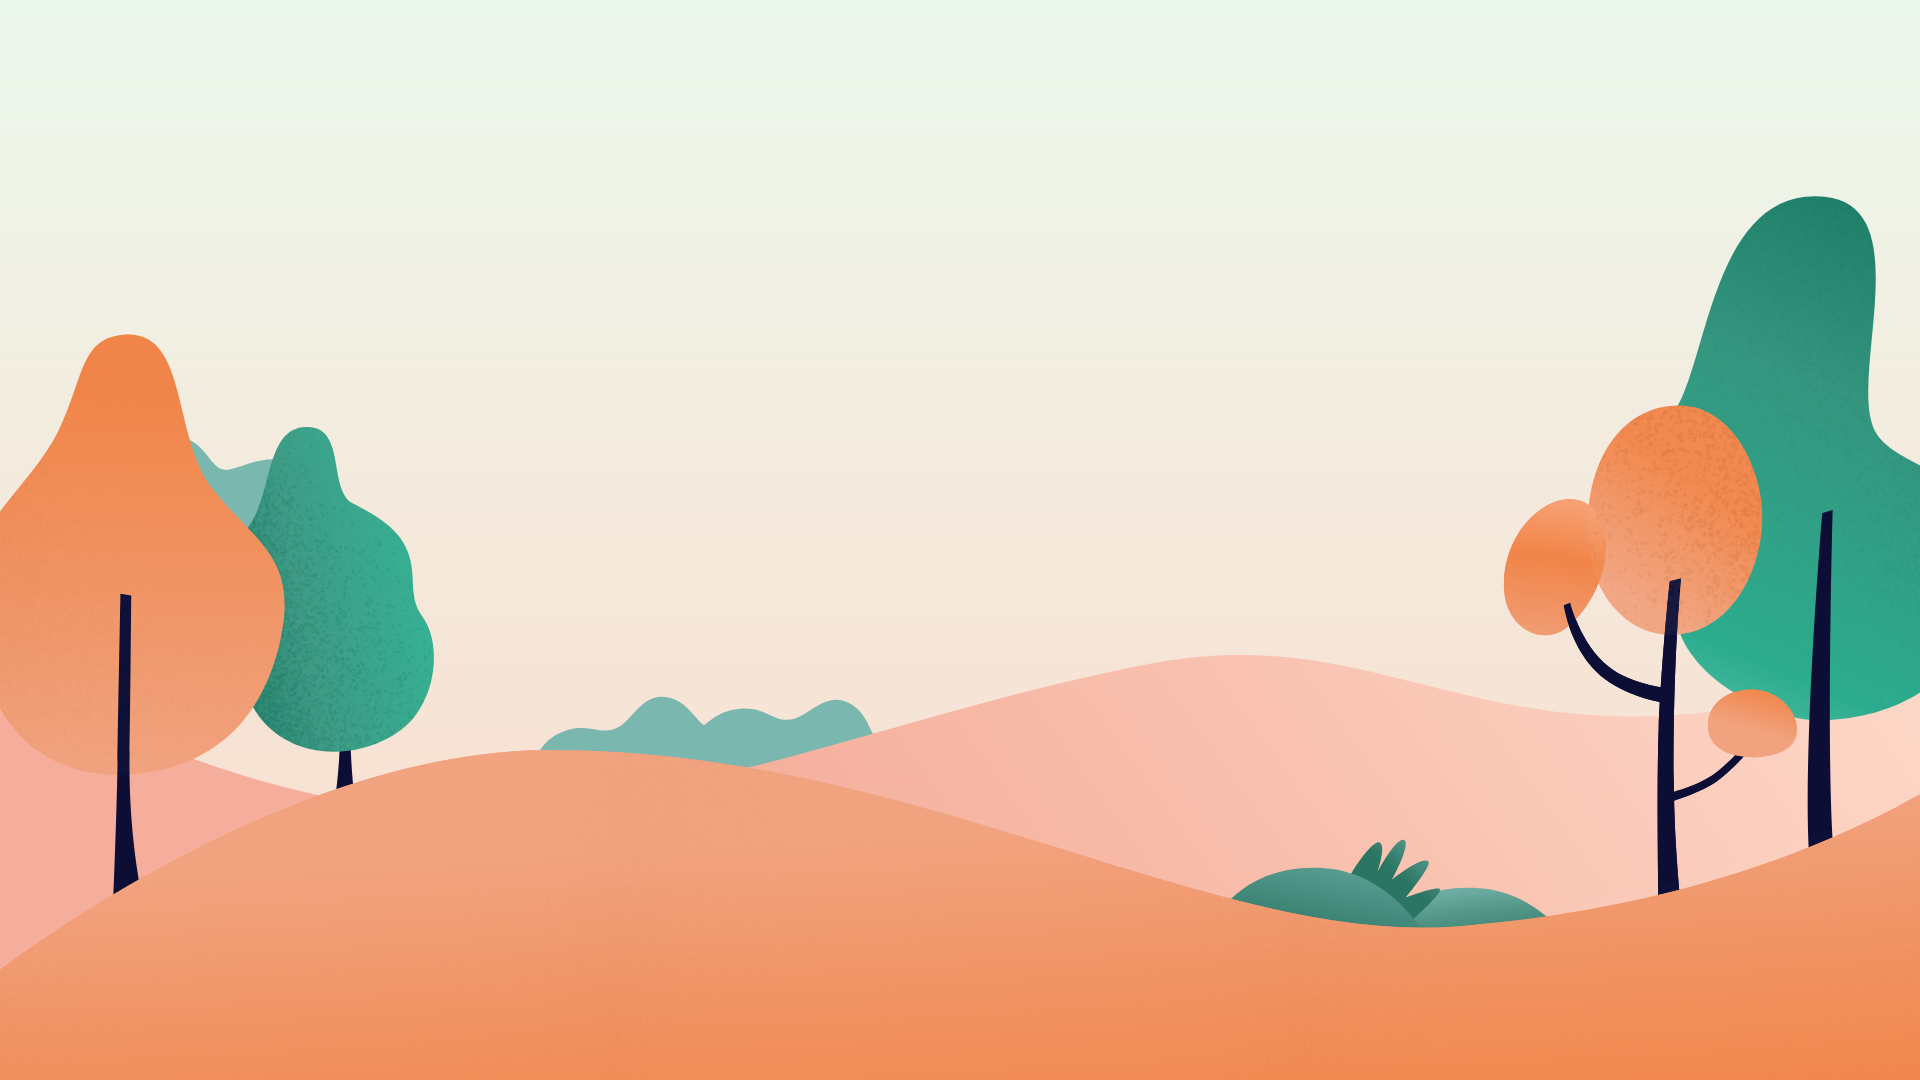
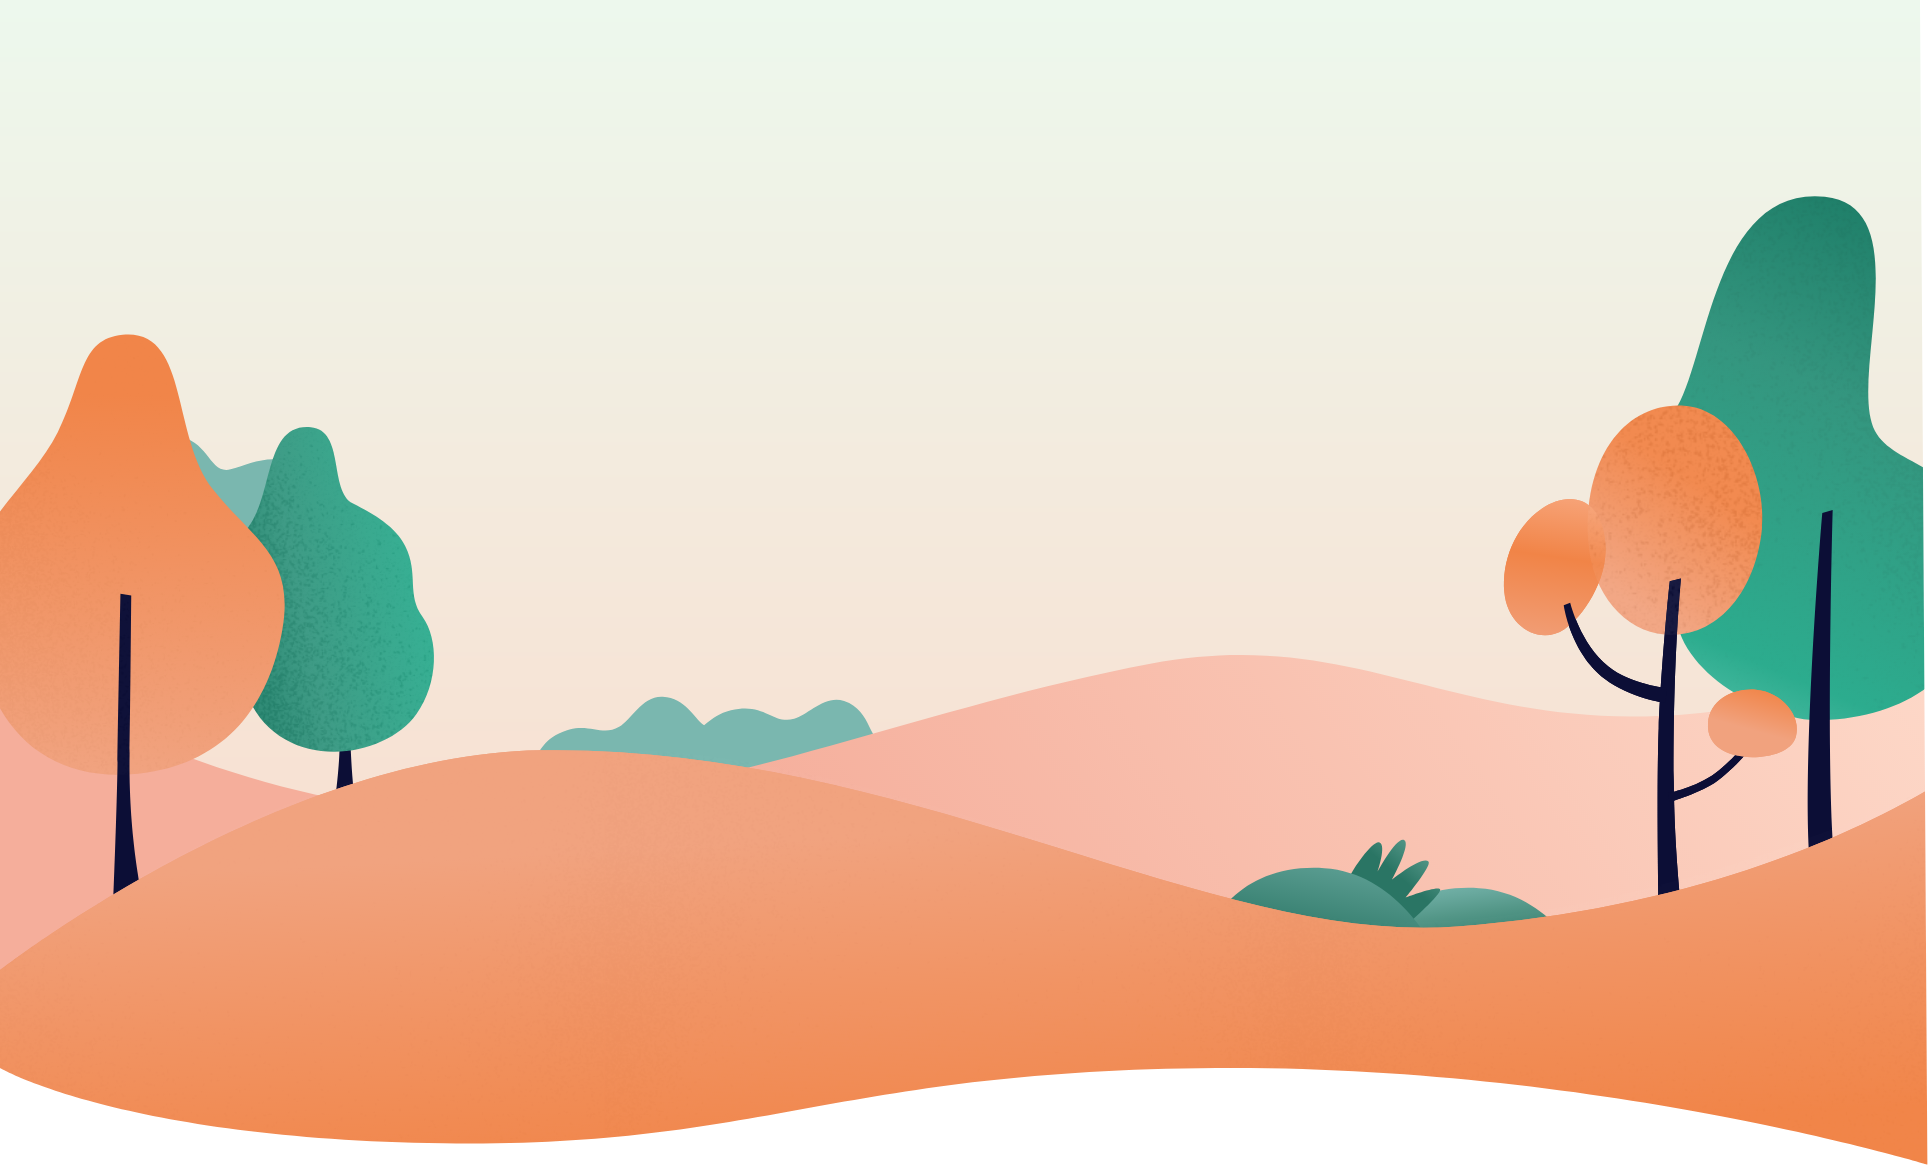
website style

diff --git a/site/index.html b/site/index.html
@@ -16,6 +16,7 @@
 			</div>
 			<nav>
 				<ul>
+					<li><a href="#about">A propos</a></li>
 					<li><a href="#extension">L'extension</a></li>
 					<li><a href="#mobileapp">L'application</a></li>
 					<li><a href="#partners">Nos partenaires</a></li>
@@ -32,5 +33,70 @@
 				</div>
 			</article>
 		</section>
+		<section id="description">
+			<h2>GreenPoke, c'est quoi ?</h2>
+			<article>
+				<section class="content-left">
+					<article>
+						<h3>Navigue de manière écologique</h3>
+						<p>Diminue ta consommation de données en activant le mode éco : seul le contenu indispensable sera conservé.</p>
+					</article>
+					<article>
+						<h3>Diminue ta consommation de données en activant le mode éco : seul le contenu indispensable sera conservé.</h3>
+						<p>Tu as la possibilité de choisir le contenu qui restera affiché sur tes pages web en fonction de tes préférences.</p>
+					</article>
+					<article>
+						<h3>Accompli des challenges</h3>
+						<p>Reçois des objectifs de données journalières à ne pas dépasser et gagnes des points à chaque challenge remporté.</p>
+					</article>
+				</section>
+				<section class="content-center">
+					<img src="assets/img/greenpoke.png" alt="logo greenpoke">
+				</section>
+				<section class="content-right">
+					<article>
+						<h3>Analyse ton flux de données</h3>
+						<p>Garde un oeil sur ton tableau de bord où tu pourras visualiser tes données et comprendre tes actions.</p>
+					</article>
+					<article>
+						<h3>Collecte des points et gagne des avantages avec nos partenaires</h3>
+						<p>Avec les points collectés tu auras le choix de planter un arbre, de faire un don à une association ou de profiter de bons d’achats chez nos partenaires engagés !</p>
+					</article>
+					<article>
+						<h3>Découvre des astuces pour réduire ta consommation de données</h3>
+						<p>GreenPoke t’encourage dans ta démarche en te donnant des conseils pour agir concrètement pour un web plus responsable.</p>
+					</article>
+				</section>
+			</article>
+		</section>
+		<div class="wrapper-ext-app">
+			<section id="discover">
+				<article>
+					<h2>Découvrez notre extension pour navigateur</h2>
+					<p>GreenPoke est une extension gratuite qui permet un suivi de ta consommation journalière via ton navigateur web.</p>
+					<div class="links">
+						<a href="">Je télécharge l'extension</a>
+					</div>
+				</article>
+			</section>
+			<section id="mobileapp">
+				<h2>Plus de 50% de notre consommation en données se fait sur mobile.</h2>
+				<p>Installe l’appli GreenPoke et reprends le contrôle sur ton empreinte écologique au quotidien.</p>
+				<div class="social-links">
+					<a href="">
+						<img src="assets/img/">
+					</a>
+					<a href="">
+						<img src="assets/img/">
+					</a>
+				</div>
+			</section>
+		</div>
+		<section id="partner">
+
+		</section>
+		<footer>
+
+		</footer>
 	</body>
 </html>

diff --git a/site/assets/css/master.css b/site/assets/css/master.css
@@ -11,6 +11,35 @@
 /* GENERAL */
 body {
 	font-family: 'proximaNova';
+	margin-bottom: 1000px;
+}
+h2 {
+	font-family: 'cocogooseBold';
+	font-size: 30px;
+	color: #1BA383;
+	text-align: center;
+	margin-bottom: 40px;
+	margin-top: 20px;
+}
+h3 {
+	font-family: 'cocogooseBold';
+	font-size: 22px;
+}
+.links {
+	display: flex;
+	justify-content: center;
+	margin-top: 32px;
+}
+.links a {
+	display: block;
+	font-size: 18px;
+	background-color: #1BA383;
+	color: white;
+	font-family: 'cocogooseBold';
+	text-decoration: none;
+	text-align: center;
+	padding: 20px 40px;
+	border-radius: 8px;
 }
   
 /* HEADER */
@@ -44,19 +73,25 @@ header nav ul li a {
 
 /* HERO */
 #hero {
-	height: calc(100vh - 112px);
+	height: calc(100vh);
 	display: flex;
 	flex-direction: column;
 	align-items: center;
 	justify-content: center;
+	position: relative;	
 	text-align: center;
 	background-image: url('../img/greenpoke-bg.png');
 	background-size: cover;
-	background-attachment: fixed;
+	background-repeat: no-repeat;
+	background-position: bottom;
+	/*background-attachment: fixed;*/
 }
 #hero article {
 	max-width: 800px;
 	margin: 0 32px;
+	position: absolute;
+	top: 50vh;
+	transform: translateY(-80%);
 }
 #hero h1 {
 	font-size: 20px;
@@ -68,23 +103,65 @@ header nav ul li a {
 	font-size: 20px;
 	line-height: 24px;
 }
-#hero .links {
-	display: flex;
-	justify-content: center;
-	margin-top: 32px;
-}
-#hero .links a {
-	display: block;
-	font-size: 18px;
-	background-color: #1BA383;
-	color: white;
-	font-family: 'cocogooseBold';
-	text-decoration: none;
-	width: 450px;
-	text-align: center;
-	padding: 20px 0;
-	border-radius: 8px;
-}
+
 #hero .links a:first-child {
 	margin-right: 20px;
+}
+
+/* DESCRIPTION */
+#description {
+	margin-top: -100px;
+	padding-top: 100px;
+	/*background: transparent linear-gradient(358deg, #F18447 0%, #F19363 53%, #F1A27E 100%) 0% 0% no-repeat padding-box;*/
+}
+#description > article {
+	display: flex;
+	justify-content: center;
+}
+#description .content-center {
+	align-self: center;
+	margin: 0 60px;
+}
+#description .content-center img {
+	width: 140px;
+	height: auto;
+}
+#description .content-left, #description .content-right {
+	max-width: 500px;
+	font-size: 22px;
+}
+#description .content-left {
+	text-align: right;
+}
+
+#description > article > section > article:nth-child(1) {
+	min-height: 120px;
+	margin-bottom: 25px;
+}
+#description > article > section > article:nth-child(n+2) {
+	min-height: 150px;
+	margin-bottom: 40px;
+}
+#description > article > section h3 {
+	margin-bottom: 10px;
+}
+#description > article > section p {
+	line-height: 27px;
+}
+
+/* EXTENSION */
+#discover article {
+	max-width: 500px;
+	margin: 0 60px;
+}
+#discover h2 {
+	text-align: left;
+}
+#discover .links {
+	justify-content: flex-start;
+}
+
+/* MOBILEAPP */
+#mobileapp h2 {
+	color: white;
 }
